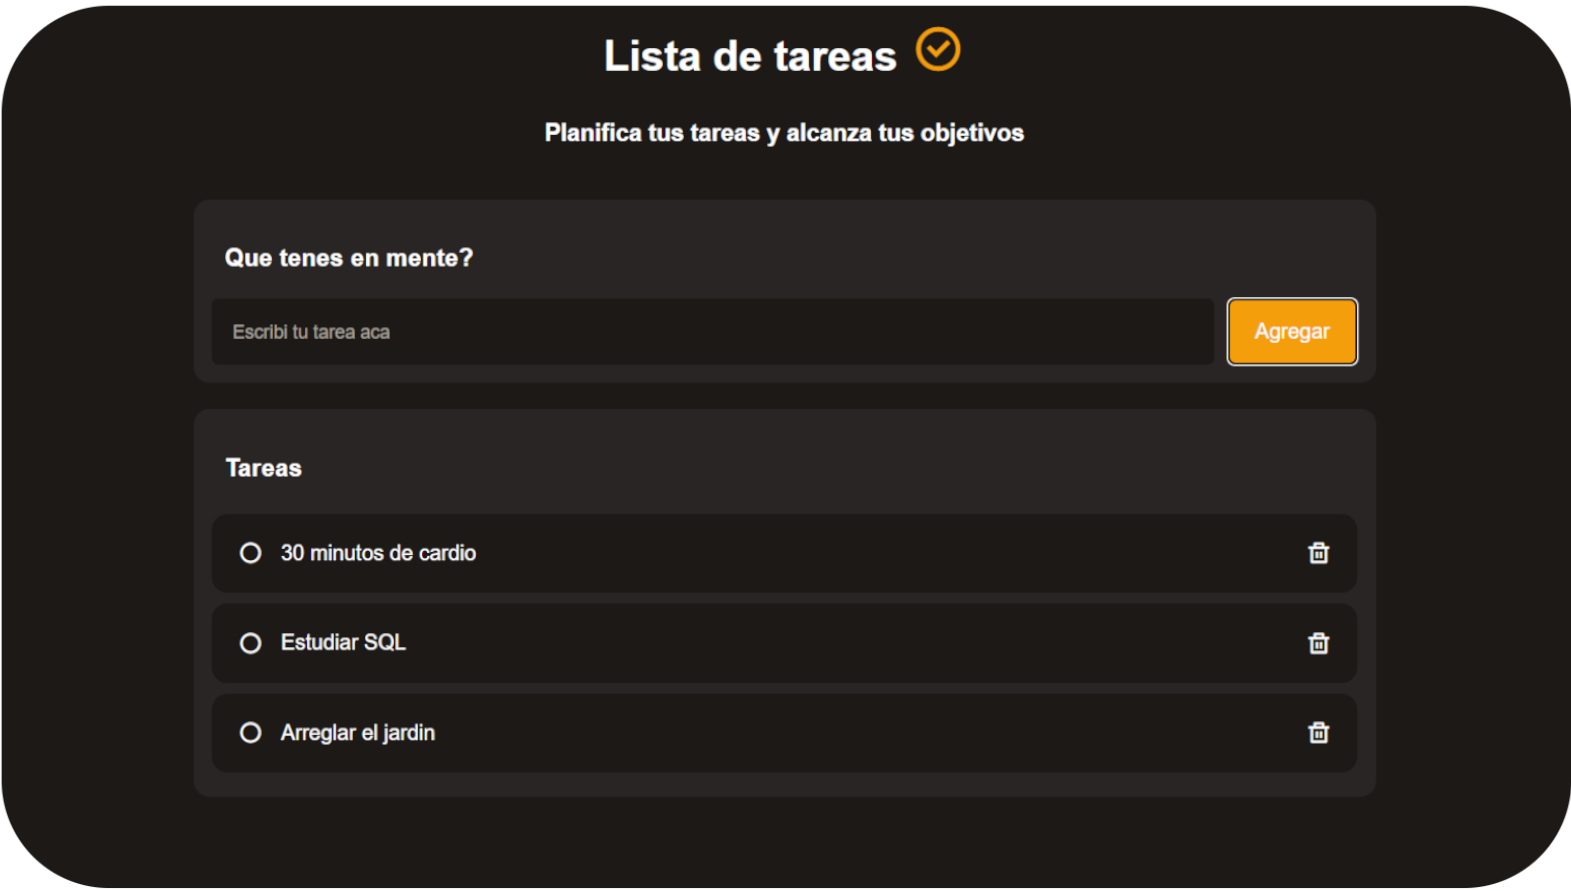
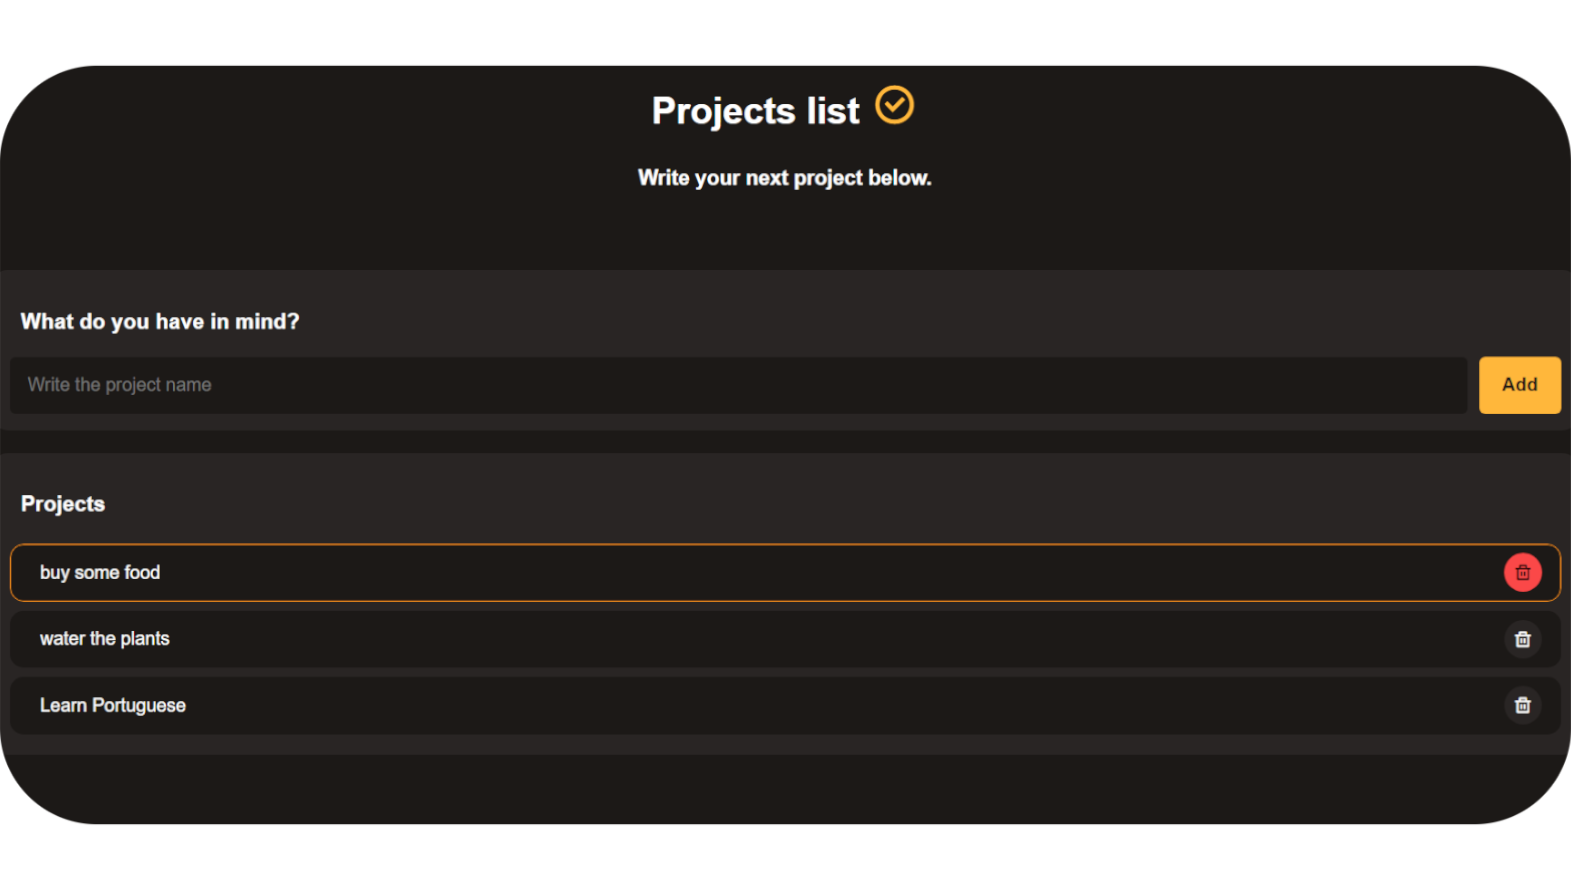
update portfolio - add project manager app and change portfolio language

diff --git a/index.html b/index.html
@@ -30,23 +30,23 @@
         <ul class="nav_links" id="nav-links">
             <li>
                 <i class="ri-home-4-line"></i>
-                <a href="#start">INICIO</a>
+                <a href="#start">START</a>
             </li>
             <li>
                 <i class="ri-user-3-line"></i>
-                <a href="#about-me">SOBRE MI</a>
+                <a href="#about-me">ABOUT ME</a>
             </li>
             <li>
                 <i class="ri-folder-6-line"></i>
-                <a href="#projects">PROYECTOS</a>
+                <a href="#projects">PROJECTS</a>
             </li>
             <li>
                 <i class="ri-mail-line"></i>
-                <a href="#contact">CONTACTO</a>
+                <a href="#contact">CONTACT</a>
             </li>
             <li>
                 <button class="cv_btn">
-                    Descargar CV
+                    Download RESUME
                     <i class="ri-download-2-line"></i>
                 </button>
             </li>
@@ -61,11 +61,11 @@
             </div>
 
             <div class="header_content">
-                <h3>Hola! Soy</h3>
+                <h3>Hi! I'm</h3>
                 <h1>Santiago</h1>
                 <h2>Frontend Developer</h2>
                 <p>
-                    Profesional con experiencia en hospitalidad a nivel internacional y en entornos multiculturales. Actualmente me encuentro perfeccionando mis conocimientos en <span class="highlight">HTML</span>, <span class="highlight">CSS</span>, <span class="highlight">JavaScript</span> y <span class="highlight">SQL</span>, con el objetivo de construir aplicaciones modernas, funcionales y bien diseñadas.
+                    Professional with experience in international hospitality and multicultural environments. I am currently honing my skills in <span class="highlight">HTML</span>, <span class="highlight">CSS</span>, <span class="highlight">JavaScript</span>, <span class="highlight">Node.js</span> and <span class="highlight">SQL</span>, with the goal of building modern, functional, and well-designed applications.
                 </p>
 
                 <ul class="header_socials">
@@ -89,7 +89,7 @@
 
             <div class="about_me_caption" id="about-me">
                 <h2>
-                    Sobre mi
+                    About me
                 </h2>
             </div>
 
@@ -104,7 +104,7 @@
                                 Buenos Aires, Argentina
                             </h4>
                             <p>
-                                Mi lugar, mi base.
+                                My place, my home base.
                             </p>
                         </div>
                     </div>
@@ -113,10 +113,10 @@
                         <i class="ri-global-line"></i>
                         <div class="about_me_text">
                             <h4>
-                                Experiencia internacional
+                                International experience
                             </h4>
                             <p>
-                                Trabaje en Arabia Saudita en entornos multiculturales de alto nivel.
+                                I worked in Saudi Arabia in high-level multicultural environments.
                             </p>
                         </div>
                     </div>
@@ -125,10 +125,10 @@
                         <i class="ri-translate"></i>
                         <div class="about_me_text">
                             <h4>
-                                Inglés B2
+                                English B2
                             </h4>
                             <p>
-                                Comunicación efectiva en contextos internacionales.
+                                Effective communication in international contexts.
                             </p>
                         </div>
                     </div>
@@ -137,10 +137,10 @@
                         <i class="ri-code-box-line"></i>
                         <div class="about_me_text">
                             <h4>
-                                En constante aprendizaje
+                                Always learning
                             </h4>
                             <p>
-                                Siempre buscando mejorar y aprender nuevas tecnologias.
+                                Always looking to improve and learn new technologies.
                             </p>
                         </div>
                     </div>
@@ -149,17 +149,16 @@
 
                 <div class="about_me_description">
                     <p>
-                        Soy un profesional argentino con experiencia en <span class="highlight">hospitalidad internacional</span> y atención al cliente en entornos multiculturales. Durante mi trayectoria trabajé en <span class="highlight">Arabia Saudita</span>, participando en operaciones de alto nivel que me permitieron desarrollar habilidades de <span class="highlight">adaptación</span>, <span class="highlight">comunicación</span> y <span class="highlight">resolución de problemas</span> bajo estándares exigentes.
+                        I'm an Argentine professional with experience in <span class="highlight">international hospitality</span> and customer service in multicultural environments. Throughout my career I worked in <span class="highlight">Saudi Arabia</span>, taking part in high-level operations that helped me develop skills in <span class="highlight">adaptability</span>, <span class="highlight">communication</span>, and <span class="highlight">problem-solving</span> under demanding standards.
                     </p>
 
                     <p>
-                        Actualmente me encuentro orientando mi carrera hacia el <span class="highlight">desarrollo web</span>, 
-                        una disciplina que siempre despertó mi interés y que hoy representa mi principal objetivo profesional. Me encuentro perfeccionando mis conocimientos en <span class="highlight">HTML</span>, <span class="highlight">CSS</span>, <span class="highlight">JavaScript</span> 
-                        y <span class="highlight">SQL</span>, con el propósito de crear aplicaciones modernas, funcionales y enfocadas en la experiencia del usuario.
+                        I am currently steering my career toward <span class="highlight">web development</span>, 
+                        a field that has always interested me and now represents my main professional goal. I am honing my skills in <span class="highlight">HTML</span>, <span class="highlight">CSS</span>, <span class="highlight">JavaScript</span>, <span class="highlight">Node.js</span> and <span class="highlight">SQL</span>, with the aim of building modern, functional applications focused on user experience.
                     </p>
 
                     <p>
-                        Además, cuento con <span class="highlight">nivel B2 de inglés</span>, lo que me permite desenvolverme en contextos internacionales y acceder a <span class="highlight">documentación y recursos técnicos</span> de manera fluida.
+                        I also have <span class="highlight">B2 level English</span>, which allows me to work comfortably in international settings and access <span class="highlight">technical documentation and resources</span> fluently.
                     </p>
                 </div>
 
@@ -170,7 +169,7 @@
         <section>
             <div class="skills_caption">
                 <h2>
-                    Mis habilidades
+                    My skills
                 </h2>
             </div>
 
@@ -178,25 +177,37 @@
                     <div class="cards">
                         <img src="assets/icon/html.png">
                         <h4>HTML</h4>
-                        <p>Estructura de páginas web y semántica.</p>
+                        <p>Web page structure and semantics.</p>
                     </div>
 
                     <div class="cards">
                         <img src="assets/icon/css.png">
                         <h4>CSS</h4>
-                        <p>Estilos modernos, responsivo y diseños UI.</p>
+                        <p>Modern styling, responsive design, and UI layouts.</p>
                     </div>
 
                     <div class="cards">
                         <img src="assets/icon/js.png">
                         <h4>Javascript</h4>
-                        <p>Interactividad, lógica y manipulación del DOM.</p>
+                        <p>Interactivity, logic, and DOM manipulation.</p>
                     </div>
 
                     <div class="cards">
                         <img src="assets/icon/sql.png">
                         <h4>SQL</h4>
-                        <p>Consultas, bases de datos y modelado relacional.</p>
+                        <p>Queries, databases, and relational modeling.</p>
+                    </div>
+
+                    <div class="cards">
+                        <img src="assets/icon/node.png">
+                        <h4>Node.js</h4>
+                        <p>Backend development, APIs, and server-side JavaScript.</p>
+                    </div>
+
+                    <div class="cards">
+                        <img src="assets/icon/express.png">
+                        <h4>Express.js</h4>
+                        <p>Building servers and APIs for web applications.</p>
                     </div>
             </div>
         </section>
@@ -205,7 +216,7 @@
         <section>
             <div class="projects_caption" id="projects">
                 <h2>
-                    Mis proyectos
+                    My projects
                 </h2>
             </div>
 
@@ -214,9 +225,9 @@
                     <img src="assets/projects/fuerza-bruta.lp.png">
                     <div class="project_text">
                         <h4>Landing Page / Fuerza Bruta</h4>
-                        <p>Estructura de páginas web y semántica.</p>
+                        <p>Web page structure and semantics.</p>
                         <a href="https://fuerza-bruta-landing-page.vercel.app/" target="_blank" class="project_btn">
-                            Ver proyecto
+                            View project
                             <i class="ri-external-link-line"></i>
                         </a>
                     </div>
@@ -225,11 +236,15 @@
                 <div class="project">
                     <img src="assets/projects/todo.png">
                     <div class="project_text">
-                        <h4>Lista de Tareas</h4>
-                        <p>App para gestionar tareas con storage.</p>
-                        <a href="https://todo-list-silk-delta.vercel.app" target="_blank" class="project_btn">
-                            Ver proyecto
+                        <h4>Project Manager</h4>
+                        <p>based task manager built with HTML, CSS, JavaScript & Node.js. Features an installable desktop version powered by Electron.</p>
+                        <a href="https://project-manager-electron-ocgw-kfs10suf5.vercel.app" target="_blank" class="project_btn">
+                            View project
                             <i class="ri-external-link-line"></i>
+                        </a>
+                        <a href="https://github.com/SpinelliSantiago/project-manager-electron/releases/tag/v1.0.0" target="_blank" class="project_btn">
+                            Desktop version 
+                            <i class="ri-github-fill"></i>
                         </a>
                     </div>
                 </div>
@@ -237,10 +252,10 @@
                 <div class="project">
                     <img src="assets/projects/stopwatch.png">
                     <div class="project_text">
-                        <h4>Cronometro</h4>
-                        <p>Interactividad, lógica y manipulación del DOM.</p>
+                        <h4>Stopwatch</h4>
+                        <p>Interactivity, logic, and DOM manipulation.</p>
                         <a href="https://stopwatch-app-mu-two.vercel.app" target="_blank" class="project_btn">
-                            Ver proyecto
+                            View project
                             <i class="ri-external-link-line"></i>
                         </a>
                     </div>
@@ -250,9 +265,9 @@
                     <img src="assets/projects/ecommerce.png">
                     <div class="project_text">
                         <h4>E-Commerce / Page & Lantern</h4>
-                        <p>Responsive, localStorage y carrito de compras.</p>
+                        <p>Responsive design, localStorage, and shopping cart.</p>
                         <a href="https://bookstore-ecommerce-lac.vercel.app/" target="_blank" class="project_btn">
-                            Ver proyecto
+                            View project
                             <i class="ri-external-link-line"></i>
                         </a>
                     </div>
@@ -282,27 +297,27 @@
 
             <div class="footer_nav">
                 <h5>
-                    Enlaces
+                    Links
                 </h5>
                 <ul class="footer_links">
                     <li>
                         <span class="highlight">></span>
-                        <a href="#start">Inicio</a>
+                        <a href="#start">Home</a>
                     </li>
                     <li>
                         <span class="highlight">></span>
-                        <a href="#about-me">Sobre mi</a>
+                        <a href="#about-me">About me</a>
                     </li>
                     <li>
                         <span class="highlight">></span>
-                        <a href="#projects">Proyectos</a>
+                        <a href="#projects">Projects</a>
                     </li>
                 </ul>
             </div>
 
             <div class="footer_contact" id="contact">
                 <h5>
-                    Contacto
+                    Contact
                 </h5>
                 <ul class="footer_socials">
                     <li>
@@ -328,7 +343,7 @@
         </div>
 
         <div class="footer_text">
-            <p> © 2026 Santiago. Todos los derechos reservados.</p>
+            <p> © 2026 Santiago. All rights reserved.</p>
         </div>
 
     </footer>

diff --git a/style.css b/style.css
@@ -241,7 +241,7 @@ header{
 }
 
 .about_me_card h4, .about_me_card i{
-    font-size: 20px;
+    font-size: 22px;
     color: var(--primary-color);
 }
 
@@ -303,15 +303,15 @@ header{
 }
 
 .skills{
+    display: grid;
+    grid-template-columns: repeat(3, 2fr);
     margin: auto;
+    width: 65%;
+    gap: 25px;
     margin-bottom: 80px;
-    display: flex;
-    padding: 50px;
-    max-width: 1900px;
 }
 
 .cards h4{
-    font-size: 20px;
     margin: 20px 0;
     font-size: 20px;
     font-weight: bold;
@@ -319,7 +319,7 @@ header{
 }
 
 .cards p{
-    font-size: 16px;
+    font-size: 17px;
     margin: 0 20px;
     line-height: 22px;
     color: var(--white);
@@ -329,14 +329,13 @@ header{
     text-align: center;
     border-radius: 12px;
     padding: 60px 20px;
-    margin: 0 10px;
     box-shadow: 0 0 8px #9afa802e;
     background: #10170a;
     transition: 0.2s;
 }
 
 .cards img{
-    margin: 20px 0;
+    margin: 10px 0;
     max-width: 110px;
 }
 
@@ -658,8 +657,8 @@ header img{
 }
 
 .cards{
-    width: 80%;
-    margin: 12px auto;
+    width: 90%;
+    margin: auto;
 }
 
 .about_me_caption h2{
@@ -794,7 +793,7 @@ nav button{
 
 .skills{
     display: grid;
-    grid-template-columns: repeat(2, 1fr);
+    grid-template-columns: repeat(3, 1fr);
     width: 90%;
     margin: auto;
     padding: 0;
@@ -804,9 +803,8 @@ nav button{
     font-size: 40px;
 }
 
-.cards{
-    width: 350px;
-    margin: 12px auto;
+.cards p{
+    font-size: 18px;
 }
 
 .projects{
@@ -823,7 +821,7 @@ nav button{
 
 header {
     grid-template-columns: repeat(2, 1fr);
-    padding: 180px 0 40px 0;
+    padding: 160px 0 40px 0;
 }
 
 .header_content {